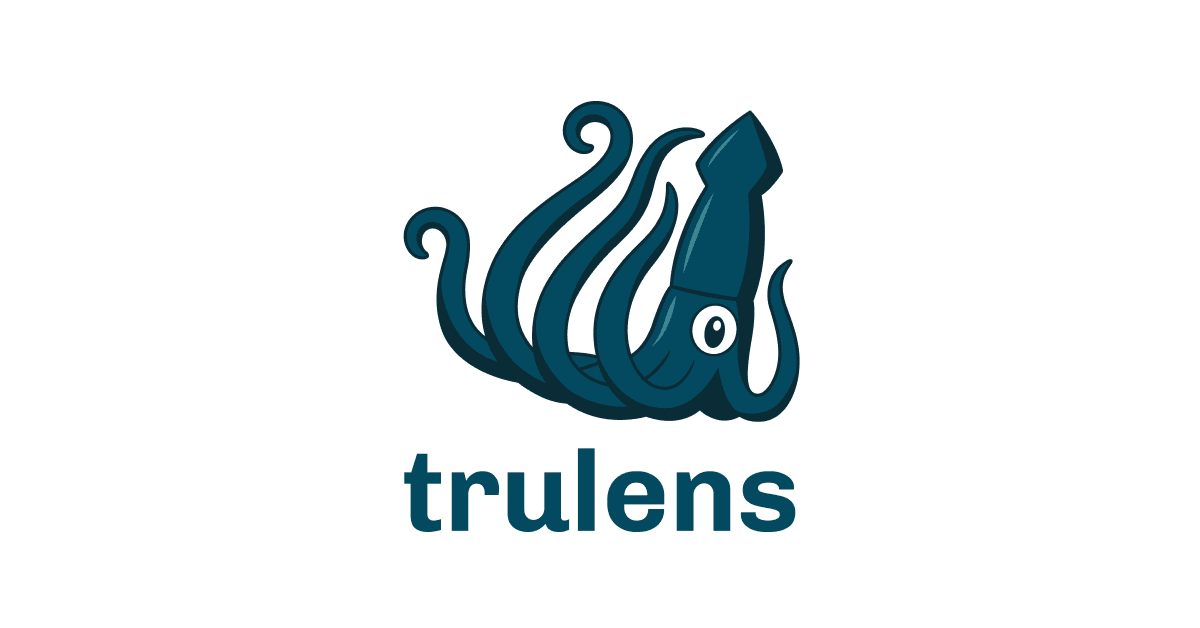
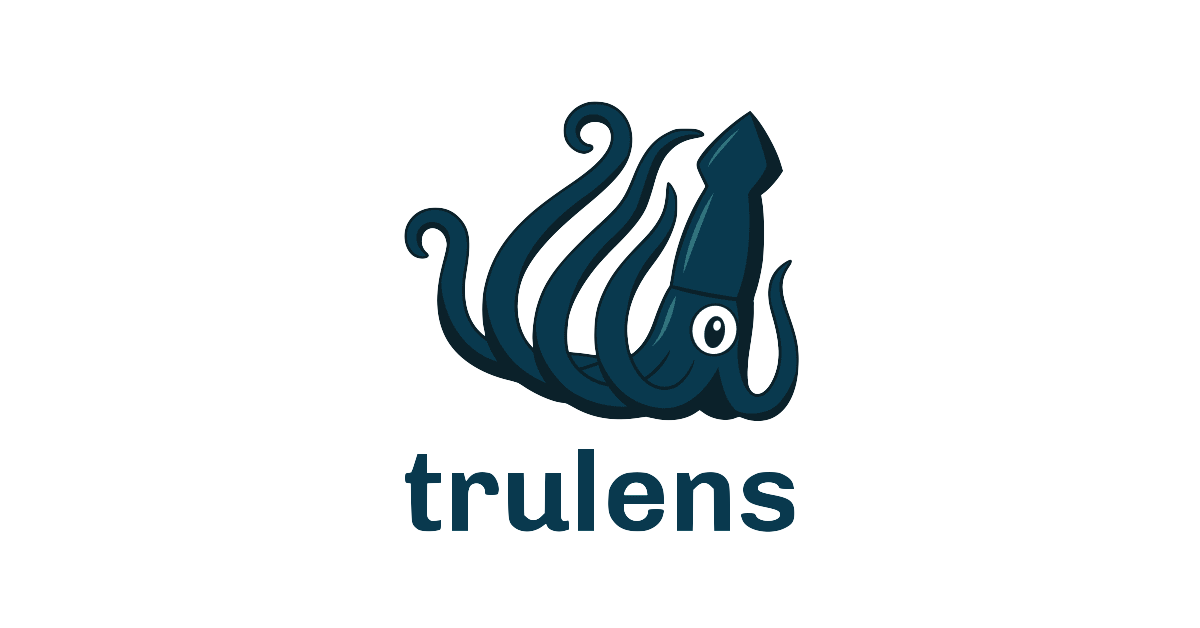
convert to pngs for better display

diff --git a/docs/trulens/getting_started/core_concepts/rag_triad.md b/docs/trulens/getting_started/core_concepts/rag_triad.md
@@ -8,7 +8,7 @@ even retrieves irrelevant context that is then weaved into the LLM’s response.
 TruEra has innovated the RAG triad to evaluate for hallucinations along each
 edge of the RAG architecture, shown below:
 
-![RAG Triad](../../../assets/images/RAG_Triad.jpg)
+![RAG Triad](../../../assets/images/RAG_Triad.png)
 
 The RAG triad is made up of 3 evaluations: context relevance, groundedness and
 answer relevance. Satisfactory evaluations on each provides us confidence that

diff --git a/docs/trulens/getting_started/core_concepts/honest_harmless_helpful_evals.md b/docs/trulens/getting_started/core_concepts/honest_harmless_helpful_evals.md
@@ -11,7 +11,7 @@ functions) in TruLens that fall into each category, shown below. These feedback
 functions provide a starting point for ensuring your LLM app is performant and
 aligned.
 
-![Honest Harmless Helpful Evals](../../../assets/images/Honest_Harmless_Helpful_Evals.jpg)
+![Honest Harmless Helpful Evals](../../../assets/images/Honest_Harmless_Helpful_Evals.png)
 
 ## Honest
 
